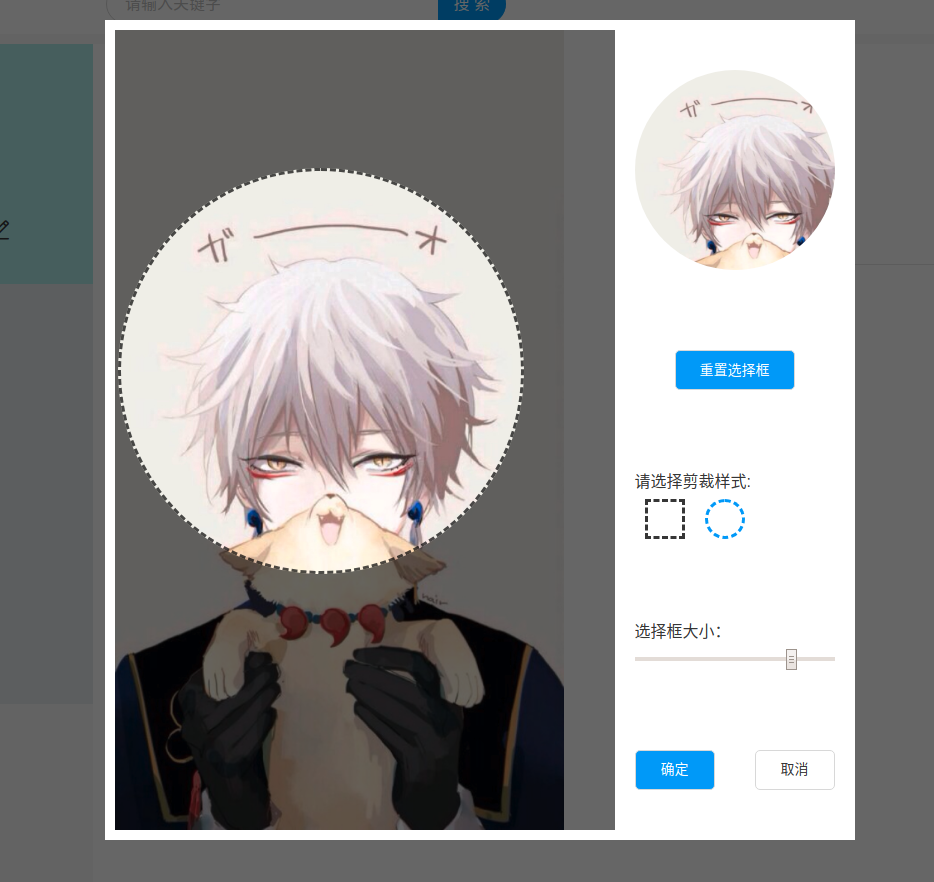
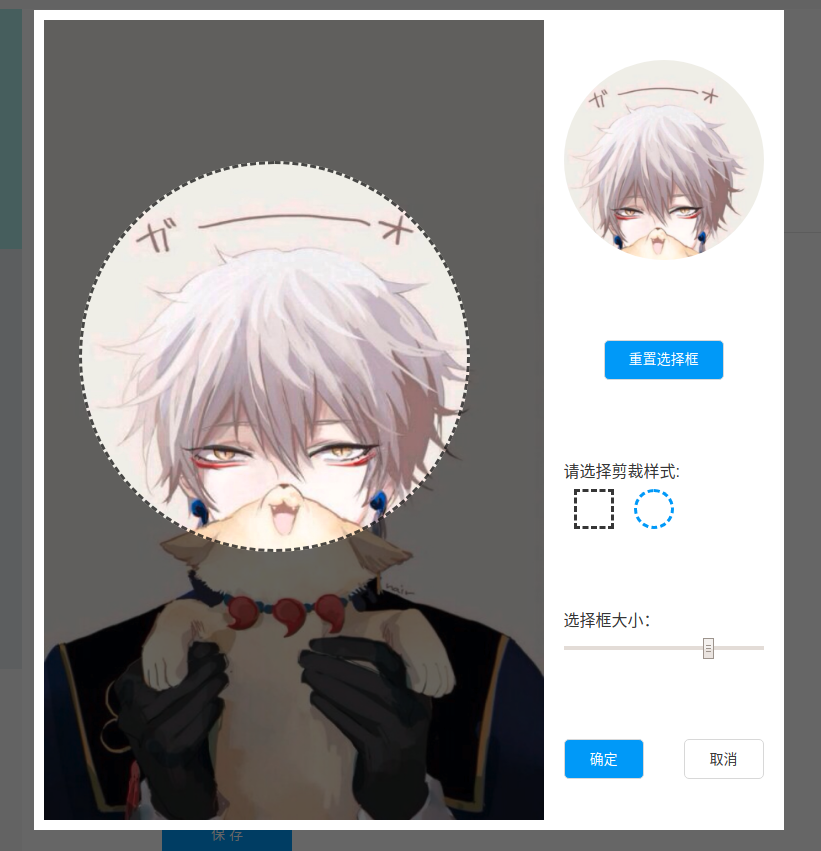
version1.0.4: fix image pre & deal with little image

diff --git a/index.js b/index.js
@@ -31,7 +31,7 @@ var CursorType = {
   CROSSHAIR: 'crosshair'
 };
 var OriginCropSize = 200;
-var MinCropperSize = 500;
+var MinImageSize = 500;
 var MaxCropperWidth = 1000;
 var MaxCropperHeight = 800;
 
@@ -63,8 +63,16 @@ var ImageCropper = function (_PureComponent) {
       var image = new Image();
       image.src = _this.props.imageUrl;
       image.onload = function () {
+        if (image.width < MinImageSize || image.width < MinImageSize) {
+          _this.props.onSave(image.src);
+          return;
+        }
         _this.setState({ image: image });
       };
+
+      addEventListener('resize', _this.getCropperPosition);
+    }, _this.componentWillUnmount = function () {
+      removeEventListener('resize', _this.getCropperPosition);
     }, _this.render = function () {
       return _react2.default.createElement(
         'div',
@@ -80,10 +88,10 @@ var ImageCropper = function (_PureComponent) {
       var imageDivWidth = 0;
       if (_this.state.image.width > _this.state.image.height) {
         imageDivWidth = _this.state.image.width > MaxCropperWidth ? MaxCropperWidth : _this.state.image.width;
-        imageDivHeight = imageDivWidth * (_this.state.image.height / _this.state.image.width);
+        imageDivHeight = imageDivWidth * _this.state.image.height / _this.state.image.width;
       } else {
         imageDivHeight = _this.state.image.height > MaxCropperHeight ? MaxCropperHeight : _this.state.image.height;
-        imageDivWidth = imageDivHeight / (_this.state.image.height / _this.state.image.width);
+        imageDivWidth = imageDivHeight * _this.state.image.width / _this.state.image.height;
       }
 
       return _react2.default.createElement(
@@ -100,7 +108,7 @@ var ImageCropper = function (_PureComponent) {
           className: 'image-cropper-image-div',
           onMouseEnter: _this.getCropperPosition,
           onMouseMove: _this.onChangeCrop,
-          onMouseLeave: _this.stopChangeCrop,
+          onMouseUp: _this.stopChangeCrop,
           style: {
             backgroundImage: 'url(' + _this.state.image.src + ')',
             width: imageDivWidth + 'px',
@@ -126,12 +134,11 @@ var ImageCropper = function (_PureComponent) {
         'div',
         { className: 'image-cropper-pre-options' },
         _react2.default.createElement('div', {
-          id: 'image-cropper-image-pre',
           className: 'image-cropper-image-pre',
           style: {
             borderRadius: '' + _this.state.cropBorderRadius,
             backgroundImage: 'url(' + _this.state.image.src + ')',
-            backgroundSize: (imageDivWidth < MinCropperSize ? MinCropperSize : imageDivWidth) * (OriginCropSize / _this.state.cropWidth) + 'px ' + (imageDivHeight < MinCropperSize ? MinCropperSize : imageDivHeight) * (OriginCropSize / _this.state.cropHeight) + 'px',
+            backgroundSize: imageDivWidth * (OriginCropSize / _this.state.cropWidth) + 'px ' + imageDivHeight * (OriginCropSize / _this.state.cropHeight) + 'px',
             backgroundPosition: -_this.state.cropLeft * (OriginCropSize / _this.state.cropWidth) + 'px ' + -_this.state.cropTop * (OriginCropSize / _this.state.cropHeight) + 'px'
           }
         }),
@@ -211,12 +218,10 @@ var ImageCropper = function (_PureComponent) {
         width: _this.state.cropWidth,
         height: _this.state.cropHeight
       });
-    }, _this.getCropperPosition = function (e) {
-      if (!_this.cropperDivPosition) {
-        _this.cropperDivPosition = e.target.getBoundingClientRect();
-      }
+    }, _this.getCropperPosition = function () {
+      _this.cropperDivPosition = document.getElementById('image-cropper-image-div').getBoundingClientRect();
     }, _this.onChangeCrop = function (e) {
-      if ((_this.cropperDivPosition.left + _this.state.cropWidth + _this.state.cropLeft - e.clientX < 10 || _this.cropperDivPosition.top + _this.state.cropHeight + _this.state.cropTop - e.clientY < 10) && _this.state.cropShape !== CropShape.CIRCLE) {
+      if (_this.state.cropShape !== CropShape.CIRCLE && (_this.cropperDivPosition.left + _this.state.cropLeft + _this.state.cropWidth - e.clientX < 10 || _this.cropperDivPosition.top + _this.state.cropTop + _this.state.cropHeight - e.clientY < 10)) {
         _this.setState({ cursorType: CursorType.CROSSHAIR });
       } else {
         _this.setState({ cursorType: CursorType.MOVE });
@@ -240,8 +245,8 @@ var ImageCropper = function (_PureComponent) {
         _this.setState({ canCropSizeChange: true });
       }
 
-      _this.mouseCropX = e.clientX - e.target.getBoundingClientRect().x;
-      _this.mouseCropY = e.clientY - e.target.getBoundingClientRect().y;
+      _this.mouseCropX = e.clientX - e.target.getBoundingClientRect().left;
+      _this.mouseCropY = e.clientY - e.target.getBoundingClientRect().top;
     }, _this.stopChangeCrop = function () {
       _this.setState({ canCropMove: false, canCropSizeChange: false });
     }, _this.onChangeCropSize = function (e) {

diff --git a/imageCrop.js b/imageCrop.js
@@ -12,7 +12,7 @@ const CursorType = {
   CROSSHAIR: 'crosshair'
 }
 const OriginCropSize = 200
-const MinCropperSize = 500
+const MinImageSize = 500
 const MaxCropperWidth = 1000
 const MaxCropperHeight = 800
 
@@ -39,8 +39,18 @@ export default class ImageCropper extends PureComponent {
     const image = new Image()
     image.src = this.props.imageUrl
     image.onload = () => {
+      if (image.width < MinImageSize || image.width < MinImageSize) {
+        this.props.onSave(image.src)
+        return
+      }
       this.setState({ image })
     }
+
+    addEventListener('resize', this.getCropperPosition)
+  }
+
+  componentWillUnmount = () => {
+    removeEventListener('resize', this.getCropperPosition)
   }
 
   render = () => {
@@ -60,10 +70,10 @@ export default class ImageCropper extends PureComponent {
     let imageDivWidth = 0
     if (this.state.image.width > this.state.image.height) {
       imageDivWidth = this.state.image.width > MaxCropperWidth ? MaxCropperWidth : this.state.image.width
-      imageDivHeight = imageDivWidth * (this.state.image.height / this.state.image.width)
+      imageDivHeight = imageDivWidth * this.state.image.height / this.state.image.width
     } else {
       imageDivHeight = this.state.image.height > MaxCropperHeight ? MaxCropperHeight : this.state.image.height
-      imageDivWidth = imageDivHeight / (this.state.image.height / this.state.image.width)
+      imageDivWidth = imageDivHeight * this.state.image.width / this.state.image.height
     }
 
     return (
@@ -81,7 +91,7 @@ export default class ImageCropper extends PureComponent {
         className="image-cropper-image-div"
         onMouseEnter={this.getCropperPosition}
         onMouseMove={this.onChangeCrop}
-        onMouseLeave={this.stopChangeCrop}
+        onMouseUp={this.stopChangeCrop}
         style={{
           backgroundImage: `url(${this.state.image.src})`,
           width: `${imageDivWidth}px`,
@@ -109,12 +119,11 @@ export default class ImageCropper extends PureComponent {
     return (
       <div className="image-cropper-pre-options">
         <div
-          id="image-cropper-image-pre"
           className="image-cropper-image-pre"
           style={{
             borderRadius: `${this.state.cropBorderRadius}`,
             backgroundImage: `url(${this.state.image.src})`,
-            backgroundSize: `${(imageDivWidth < MinCropperSize ? MinCropperSize : imageDivWidth) * (OriginCropSize / this.state.cropWidth)}px ${(imageDivHeight < MinCropperSize ? MinCropperSize : imageDivHeight) * (OriginCropSize / this.state.cropHeight)}px`,
+            backgroundSize: `${imageDivWidth * (OriginCropSize / this.state.cropWidth)}px ${imageDivHeight * (OriginCropSize / this.state.cropHeight)}px`,
             backgroundPosition: `${-this.state.cropLeft * (OriginCropSize / this.state.cropWidth)}px ${-this.state.cropTop * (OriginCropSize / this.state.cropHeight)}px`
           }}
         />
@@ -171,16 +180,13 @@ export default class ImageCropper extends PureComponent {
     )
   }
 
-  getCropperPosition = (e) => {
-    if (!this.cropperDivPosition) {
-      this.cropperDivPosition = e.target.getBoundingClientRect()
-    }
+  getCropperPosition = () => {
+    this.cropperDivPosition = document.getElementById('image-cropper-image-div').getBoundingClientRect()
   }
 
   onChangeCrop = (e) => {
-    if ((this.cropperDivPosition.left + this.state.cropWidth + this.state.cropLeft - e.clientX < 10
-      || this.cropperDivPosition.top + this.state.cropHeight + this.state.cropTop - e.clientY < 10)
-      && this.state.cropShape !== CropShape.CIRCLE) {
+    if (this.state.cropShape !== CropShape.CIRCLE && (this.cropperDivPosition.left + this.state.cropLeft + this.state.cropWidth - e.clientX < 10
+      || this.cropperDivPosition.top + this.state.cropTop + this.state.cropHeight - e.clientY < 10)) {
       this.setState({ cursorType: CursorType.CROSSHAIR })
     } else {
       this.setState({ cursorType: CursorType.MOVE })
@@ -206,8 +212,8 @@ export default class ImageCropper extends PureComponent {
       this.setState({ canCropSizeChange: true })
     }
 
-    this.mouseCropX = e.clientX - e.target.getBoundingClientRect().x
-    this.mouseCropY = e.clientY - e.target.getBoundingClientRect().y
+    this.mouseCropX = e.clientX - e.target.getBoundingClientRect().left
+    this.mouseCropY = e.clientY - e.target.getBoundingClientRect().top
   }
 
   stopChangeCrop = () => {

diff --git a/index.css b/index.css
@@ -23,7 +23,7 @@
   max-height: 800px;
   min-width: 500px;
   min-height: 500px;
-  background-size: contain;
+  background-size: 100% 100%;
   background-repeat: no-repeat;
 }
 

diff --git a/README.md b/README.md
@@ -1,15 +1,15 @@
 # ImageBetterCorp   
-
 An image clip modal based on React
 
 ## Install
-
 Using npm:
 
-``` npm install image-better-corp ```
+  ``` npm install image-better-corp ```
 
-## Example
+## Use
 ```
+  import ImageBetterCorp from 'image-better-corp'
+
   <ImageBetterCorp
     imageUrl={imageUrl}
     onClose={this.onCloseCropModal}
@@ -20,5 +20,13 @@ Using npm:
     console.info(`${imageUrl} is the target image url`)
   }
 ```
-![long](/images/long.png)
+
+## Notice
+- Please use latest version！
+- Will return origin url when image width or height less than 500px
+- Only cancel button will trigger onClose callback
+- Only has chinese I18n
+
+## Example
+![long](/images/width.png)
 ![height](/images/height.png)
